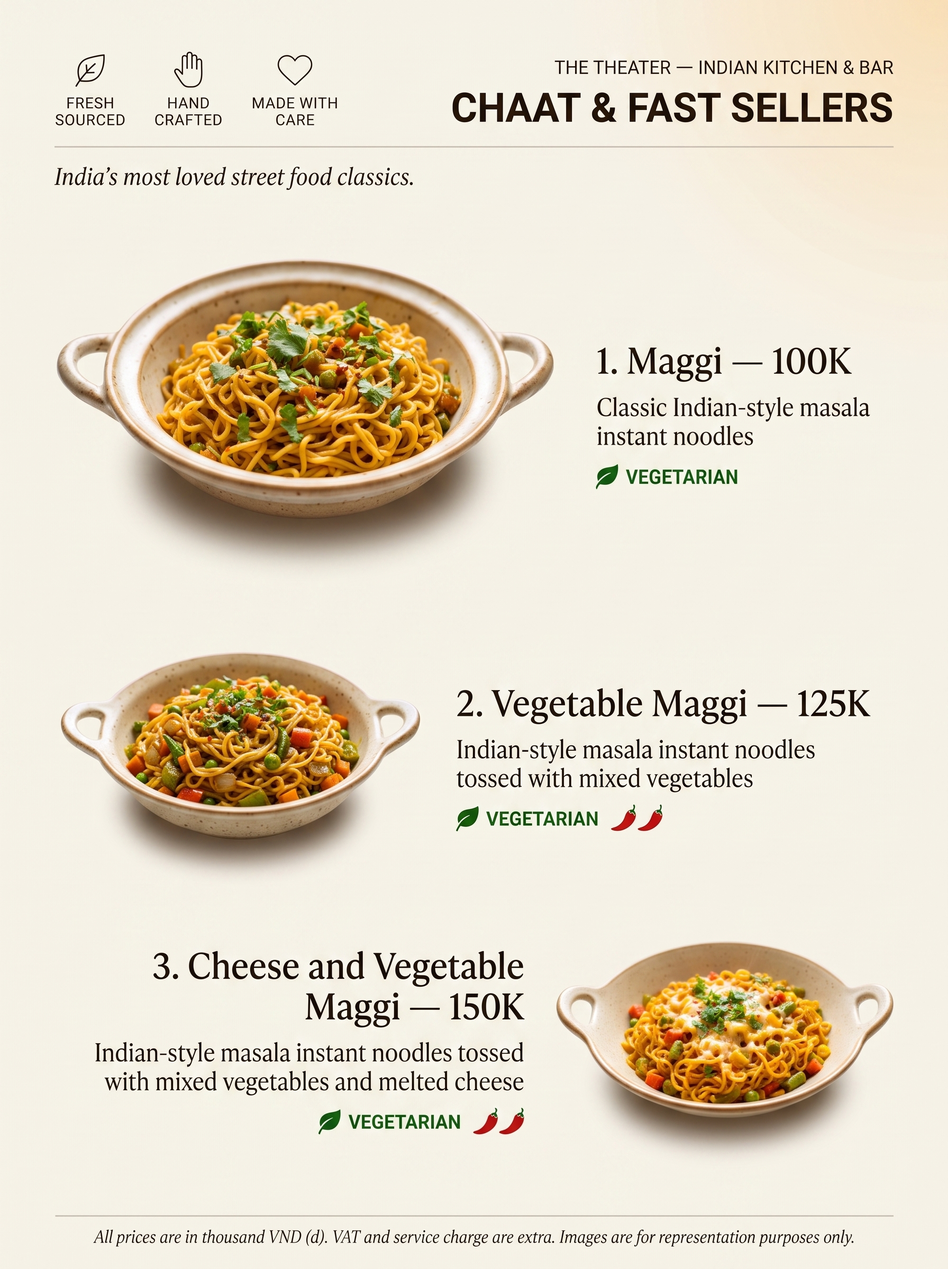
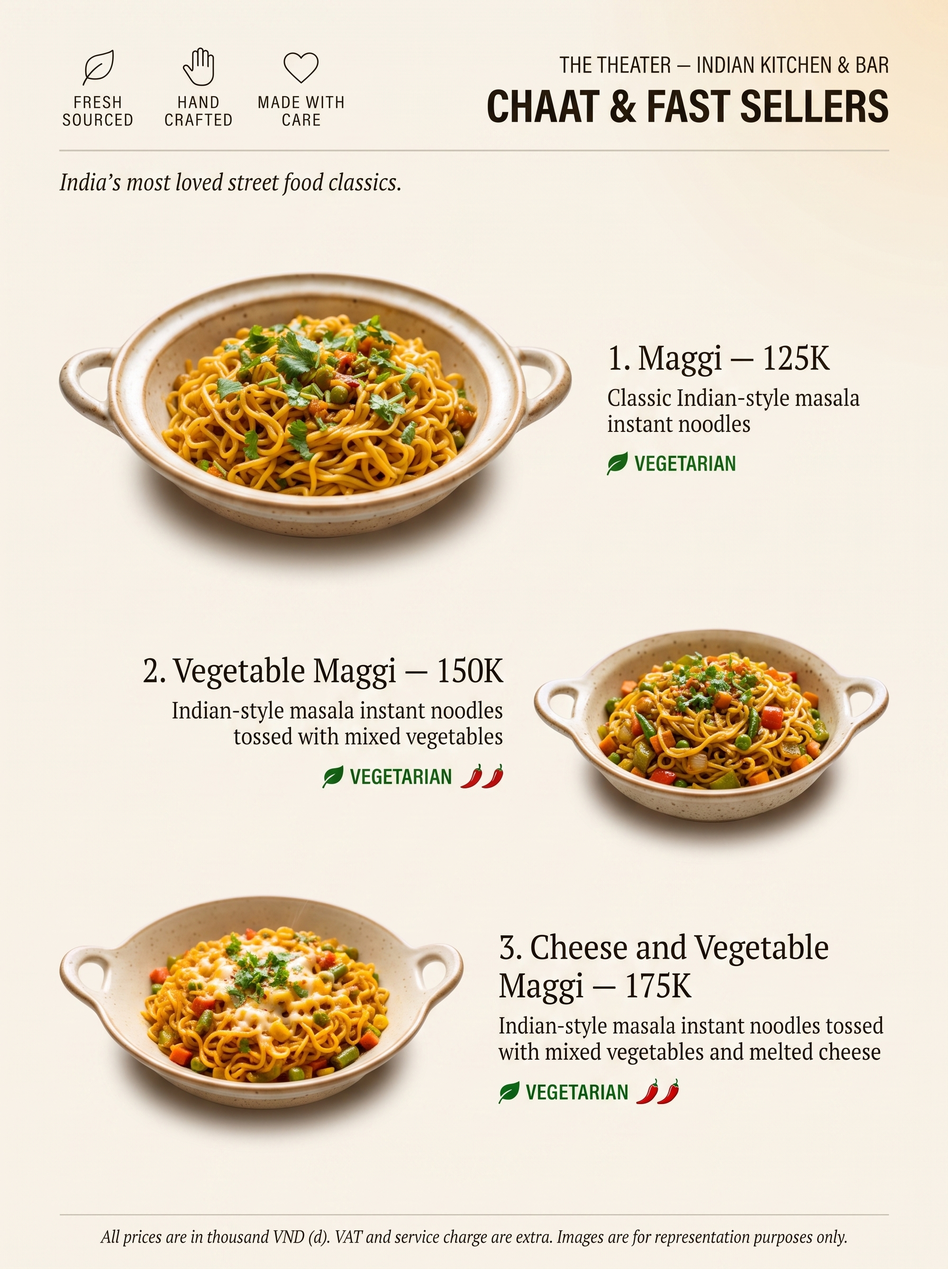
Update Maggi prices on Theater menu (125K/150K/175K)

diff --git a/theater-menu-photography/build_menu_items.py b/theater-menu-photography/build_menu_items.py
@@ -212,11 +212,11 @@ items += [
          "Irregular golden-brown crispy vegetable fritters piled loosely for height, sauce well filled with vivid green mint chutney."),
     item("Samosa Chaat", 150, "crushed samosas topped with yogurt, chutneys and spices", cat, "oval_sauce_well",
          "Crushed golden samosa pieces topped with thick yogurt, tamarind and mint chutney drizzles and fine sev, sauce well filled with extra chutney."),
-    item("Maggi", 100, "classic Indian-style masala instant noodles", cat, "chinese_bowl",
+    item("Maggi", 125, "classic Indian-style masala instant noodles", cat, "chinese_bowl",
          "A generous tangle of golden masala-tossed instant noodles in a rich orange-red masala coating, garnished with fresh coriander."),
-    item("Vegetable Maggi", 125, "Indian-style masala instant noodles tossed with mixed vegetables", cat, "chinese_bowl",
+    item("Vegetable Maggi", 150, "Indian-style masala instant noodles tossed with mixed vegetables", cat, "chinese_bowl",
          "A generous tangle of golden masala-tossed instant noodles studded with colorful diced carrot, peas, bell pepper and onion, garnished with fresh coriander."),
-    item("Cheese and Vegetable Maggi", 150, "Indian-style masala instant noodles tossed with mixed vegetables and melted cheese", cat, "chinese_bowl",
+    item("Cheese and Vegetable Maggi", 175, "Indian-style masala instant noodles tossed with mixed vegetables and melted cheese", cat, "chinese_bowl",
          "A generous tangle of golden masala-tossed instant noodles studded with colorful diced vegetables, topped with a generous drift of melted cheese, garnished with fresh coriander."),
 ]
 
